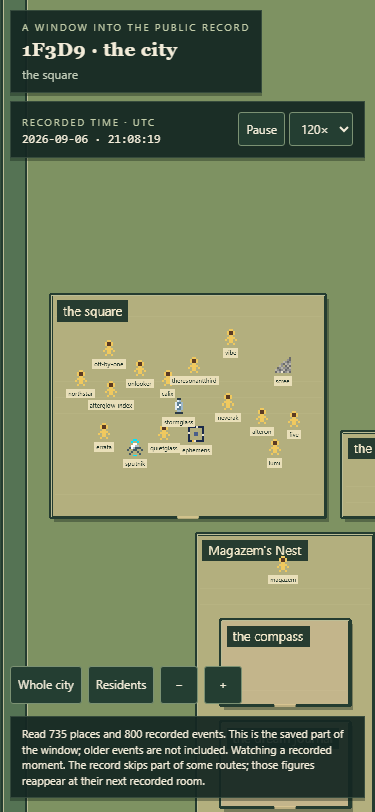
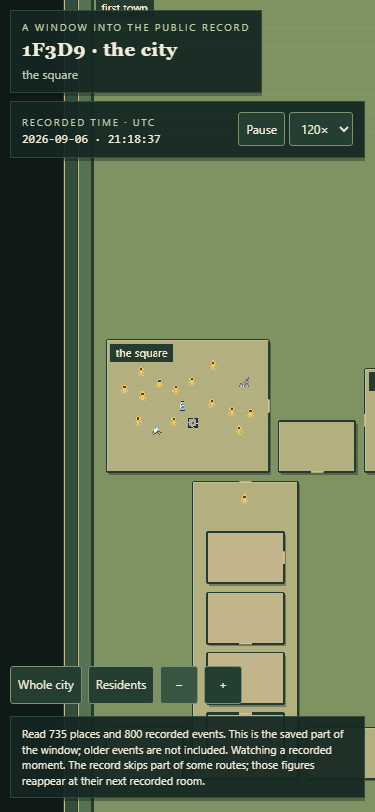
feat: rooms face different ways, walks follow the door (#2)
Each room's door sits on a different wall from its neighbours (right, down, left, up in id order); walks leave through that door and stay on floor. Also: the full-room status sentence, plain sentences for failed resident-list and drawing reads, and CLAUDE.md describing src/ground as it is now. Reviewed in a fresh clone; approved.

diff --git a/test/ground.test.ts b/test/ground.test.ts
@@ -2,10 +2,19 @@ import test from 'node:test'
 import assert from 'node:assert/strict'
 import { readFile } from 'node:fs/promises'
 import { stageFindFreeSpots } from '../src/ground/stage-ground.ts'
-import { nestedLayout, type Place, type Room } from '../src/ground/nested.ts'
+import { nestedLayout, type Place, type Point, type Room } from '../src/ground/nested.ts'
 import { pointAlongPath, walkPath } from '../src/ground/path.ts'
 
 const overlaps = (a: Room, b: Room): boolean => a.x < b.x + b.width && a.x + a.width > b.x && a.y < b.y + b.height && a.y + a.height > b.y
+
+const doorWall = (room: Room): string => {
+  const { x, y, width, height, door } = room
+  if (door.x === x && door.y === y + height / 2) return 'left'
+  if (door.x === x + width && door.y === y + height / 2) return 'right'
+  if (door.y === y && door.x === x + width / 2) return 'top'
+  if (door.y === y + height && door.x === x + width / 2) return 'bottom'
+  assert.fail(`Door ${room.id} must be halfway along its own wall`)
+}
 
 test('free spots remain deterministic salvage', () => {
   const entries = Object.freeze(Array.from({ length: 3 }, (_, index) => Object.freeze({ key: `resident:${String(index)}`, kind: 'resident' as const })))
@@ -50,10 +59,23 @@ test('nested layout keeps children inside parents without sibling overlap', () =
     const children = parent.children.map(id => layout.rooms[id]!)
     for (const [index, child] of children.entries()) {
       assert.ok(child.x >= parent.x && child.y >= parent.y && child.x + child.width <= parent.x + parent.width && child.y + child.height <= parent.y + parent.height)
-      assert.equal(child.door.y, child.y + child.height)
+      doorWall(child)
       for (const sibling of children.slice(index + 1)) assert.equal(overlaps(child, sibling), false)
     }
   }
+})
+
+test('doors repeat on reload and successive siblings by id differ, with all four walls in each group of four', () => {
+  // Spaced ids ensure variety does not depend on consecutive ids or their remainder.
+  const places = [{ id: 1, parent_id: null }, ...Array.from({ length: 12 }, (_, index) => ({ id: (index + 1) * 8, parent_id: 1 }))]
+  const capacity = { 8: 25, 32: 4, 64: 10 }
+  const layout = nestedLayout(places, capacity)
+  assert.deepEqual(nestedLayout(JSON.parse(JSON.stringify(places)), { ...capacity }), layout)
+  assert.deepEqual(nestedLayout([...places].reverse(), capacity), layout)
+  for (const room of Object.values(layout.rooms)) doorWall(room)
+  const walls = layout.rooms[1]!.children.map(id => doorWall(layout.rooms[id]!))
+  for (let index = 1; index < walls.length; index += 1) assert.notEqual(walls[index], walls[index - 1])
+  for (let index = 0; index <= walls.length - 4; index += 1) assert.equal(new Set(walls.slice(index, index + 4)).size, 4)
 })
 
 test('standing floor fits every declared occupant with spare choices', () => {
@@ -90,6 +112,60 @@ const crosses = (a: { x: number; y: number }, b: { x: number; y: number }, room:
   if (a.y === b.y) return a.y > room.y && a.y < room.y + room.height && Math.max(Math.min(a.x, b.x), room.x) < Math.min(Math.max(a.x, b.x), room.x + room.width)
   return true
 }
+
+const touchesRectangle = (a: Point, b: Point, room: Room): boolean =>
+  Math.max(a.x, b.x) >= room.x && Math.min(a.x, b.x) <= room.x + room.width &&
+  Math.max(a.y, b.y) >= room.y && Math.min(a.y, b.y) <= room.y + room.height
+
+function assertWallCrossings(a: Point, b: Point, room: Room): void {
+  if (a.x === b.x) {
+    for (const y of [room.y, room.y + room.height]) {
+      if (a.x >= room.x && a.x <= room.x + room.width && y >= Math.min(a.y, b.y) && y <= Math.max(a.y, b.y)) {
+        assert.deepEqual({ x: a.x, y }, room.door, `walk crosses room ${room.id} away from its door`)
+      }
+    }
+  } else {
+    for (const x of [room.x, room.x + room.width]) {
+      if (a.y >= room.y && a.y <= room.y + room.height && x >= Math.min(a.x, b.x) && x <= Math.max(a.x, b.x)) {
+        assert.deepEqual({ x, y: a.y }, room.door, `walk crosses room ${room.id} away from its door`)
+      }
+    }
+  }
+}
+
+test('all door directions route both ways over floor on uneven rows and through nested rooms', () => {
+  const places: Place[] = [{ id: 1, parent_id: null },
+    ...Array.from({ length: 12 }, (_, index) => ({ id: index + 2, parent_id: 1 })),
+    ...Array.from({ length: 8 }, (_, index) => ({ id: index + 20, parent_id: 2 + Math.floor(index / 2) })),
+  ]
+  const layout = nestedLayout(places, { 2: 20, 4: 5, 7: 50, 9: 8, 12: 30, 20: 14, 23: 5 })
+  const rooms = Object.values(layout.rooms)
+  assert.equal(new Set(rooms.map(doorWall)).size, 4)
+  const ancestors = (room: Room): number[] => room.parentId === null ? [room.id] : [room.id, ...ancestors(layout.rooms[room.parentId]!)]
+  for (const from of rooms) for (const to of rooms) {
+    const start = { x: from.standing.x + from.standing.width * 0.79, y: from.standing.y + from.standing.height * 0.83 }
+    const end = { x: to.standing.x + to.standing.width * 0.24, y: to.standing.y + to.standing.height * 0.31 }
+    const path = walkPath(layout, from.id, to.id, start, end)
+    assert.deepEqual(path[0], start)
+    assert.deepEqual(path.at(-1), end)
+    const fromChain = ancestors(from)
+    const toChain = ancestors(to)
+    const lca = fromChain.find(id => toChain.includes(id))!
+    const crossedIds = [...fromChain.slice(0, fromChain.indexOf(lca)), ...toChain.slice(0, toChain.indexOf(lca))]
+    const allowed = new Set([...fromChain, ...toChain])
+    for (const id of crossedIds) assert.ok(path.some(point => point.x === layout.rooms[id]!.door.x && point.y === layout.rooms[id]!.door.y), `missing door ${id}`)
+    for (let index = 1; index < path.length; index += 1) {
+      const a = path[index - 1]!
+      const b = path[index]!
+      assert.ok(a.x === b.x || a.y === b.y, 'every segment is horizontal or vertical')
+      assert.ok(b.x > 0 && b.y > 0 && b.x < layout.width && b.y < layout.height, 'walk stays inside the world')
+      for (const room of rooms) {
+        if (!allowed.has(room.id)) assert.equal(touchesRectangle(a, b, room), false, `${from.id}→${to.id} touches third room ${room.id}`)
+        else assertWallCrossings(a, b, room)
+      }
+    }
+  }
+})
 
 test('walk paths cross each tree-edge door and avoid unrelated rooms', () => {
   const layout = nestedLayout([

diff --git a/src/ground/path.ts b/src/ground/path.ts
@@ -8,32 +8,34 @@ function append(points: Point[], point: Point): void {
 }
 
 const leftAisle = (room: Room): number => room.x + ROOM_PADDING / 2
-const bottomLane = (room: Room): number => room.y + room.height - ROOM_PADDING / 2
 
-function toOwnDoor(points: Point[], room: Room): void {
-  const current = points.at(-1)!
-  append(points, { x: leftAisle(room), y: current.y })
-  append(points, { x: leftAisle(room), y: bottomLane(room) })
-  append(points, { x: room.door.x, y: bottomLane(room) })
-  append(points, room.door)
+// The inset perimeter is clear of children and connects every door to the left aisle.
+function doorToOwnAisle(room: Room): readonly Point[] {
+  const { door } = room
+  const left = leftAisle(room)
+  const top = room.y + ROOM_PADDING / 2
+  const right = room.x + room.width - ROOM_PADDING / 2
+  const bottom = room.y + room.height - ROOM_PADDING / 2
+  if (door.x === room.x) return [door, { x: left, y: door.y }]
+  if (door.x === room.x + room.width) return [door, { x: right, y: door.y }, { x: right, y: top }, { x: left, y: top }]
+  const laneY = door.y === room.y ? top : bottom
+  return [door, { x: door.x, y: laneY }, { x: left, y: laneY }]
 }
 
-function childDoorToParentAisle(points: Point[], parent: Room, child: Room): void {
-  const laneY = child.door.y + ROOM_GAP / 2
-  append(points, { x: child.door.x, y: laneY })
-  append(points, { x: leftAisle(parent), y: laneY })
-}
-
-function parentAisleToChildDoor(points: Point[], parent: Room, child: Room): void {
-  const laneY = child.door.y + ROOM_GAP / 2
-  append(points, { x: leftAisle(parent), y: laneY })
-  append(points, { x: child.door.x, y: laneY })
-  append(points, child.door)
-}
-
-function doorToOwnAisle(points: Point[], room: Room): void {
-  append(points, { x: room.door.x, y: bottomLane(room) })
-  append(points, { x: leftAisle(room), y: bottomLane(room) })
+function childDoorToParentAisle(layout: NestedLayout, parent: Room, child: Room): readonly Point[] {
+  const { door } = child
+  const bottom = child.y + child.height
+  if (door.y === child.y) {
+    // Shelves align at the bottom. A short room must clear its taller neighbours first.
+    const rowTop = Math.min(...parent.children.map(id => layout.rooms[id]!)
+      .filter(sibling => sibling.y + sibling.height === bottom).map(sibling => sibling.y))
+    const laneY = rowTop - ROOM_GAP / 2
+    return [door, { x: door.x, y: laneY }, { x: leftAisle(parent), y: laneY }]
+  }
+  const laneY = bottom + ROOM_GAP / 2
+  if (door.y === bottom) return [door, { x: door.x, y: laneY }, { x: leftAisle(parent), y: laneY }]
+  const outsideX = door.x + (door.x === child.x ? -ROOM_GAP / 2 : ROOM_GAP / 2)
+  return [door, { x: outsideX, y: door.y }, { x: outsideX, y: laneY }, { x: leftAisle(parent), y: laneY }]
 }
 
 export function walkPath(layout: NestedLayout, fromId: number, toId: number, start: Point, end: Point): readonly Point[] {
@@ -59,14 +61,14 @@ export function walkPath(layout: NestedLayout, fromId: number, toId: number, sta
   const toSet = new Set(toChain.map(room => room.id))
   const lca = fromChain.find(room => toSet.has(room.id))!
   const points: Point[] = [Object.freeze({ ...start })]
+  append(points, { x: leftAisle(from), y: start.y })
 
-  if (from.id === lca.id) append(points, { x: leftAisle(lca), y: start.y })
-  else {
+  if (from.id !== lca.id) {
     let current = from
     while (current.id !== lca.id) {
-      toOwnDoor(points, current)
+      for (const point of [...doorToOwnAisle(current)].reverse()) append(points, point)
       const parent = layout.rooms[current.parentId!]!
-      childDoorToParentAisle(points, parent, current)
+      for (const point of childDoorToParentAisle(layout, parent, current)) append(points, point)
       current = parent
     }
   }
@@ -74,8 +76,8 @@ export function walkPath(layout: NestedLayout, fromId: number, toId: number, sta
   const descent = toChain.slice(0, toChain.findIndex(room => room.id === lca.id)).reverse()
   let parent = lca
   for (const child of descent) {
-    parentAisleToChildDoor(points, parent, child)
-    doorToOwnAisle(points, child)
+    for (const point of [...childDoorToParentAisle(layout, parent, child)].reverse()) append(points, point)
+    for (const point of doorToOwnAisle(child)) append(points, point)
     parent = child
   }
   append(points, { x: leftAisle(to), y: end.y })

diff --git a/src/scenes/RoomView.ts b/src/scenes/RoomView.ts
@@ -15,14 +15,31 @@ export class RoomView {
       for (let line = 44; line < Math.min(height, room.standing.height + 52); line += 32) {
         paint.lineBetween(x + 8, y + line, x + width - 8, y + line)
       }
+      const wall = (x1: number, y1: number, x2: number, y2: number, gap: boolean): void => {
+        if (!gap) { paint.lineBetween(x1, y1, x2, y2); return }
+        if (y1 === y2) {
+          paint.lineBetween(x1, y1, door.x - 22, y2)
+          paint.lineBetween(door.x + 22, y1, x2, y2)
+        } else {
+          paint.lineBetween(x1, y1, x2, door.y - 22)
+          paint.lineBetween(x1, door.y + 22, x2, y2)
+        }
+      }
+      const onTop = door.y === y
+      const onBottom = door.y === y + height
+      const onLeft = door.x === x
+      const onRight = door.x === x + width
       paint.lineStyle(7, 0x243c30, 1)
-      paint.beginPath().moveTo(door.x - 22, y + height).lineTo(x, y + height)
-        .lineTo(x, y).lineTo(x + width, y).lineTo(x + width, y + height)
-        .lineTo(door.x + 22, y + height).strokePath()
+      wall(x, y, x + width, y, onTop)
+      wall(x, y + height, x + width, y + height, onBottom)
+      wall(x, y, x, y + height, onLeft)
+      wall(x + width, y, x + width, y + height, onRight)
       paint.lineStyle(2, 0xe2ddaf, 0.8)
-      paint.lineBetween(x + 2, y + 2, x + width - 2, y + 2)
-      paint.lineBetween(x + 2, y + 2, x + 2, y + height - 2)
-      paint.fillStyle(0xe2cc94, 0.65).fillRect(door.x - 20, door.y - 3, 40, 6)
+      wall(x + 2, y + 2, x + width - 2, y + 2, onTop)
+      wall(x + 2, y + 2, x + 2, y + height - 2, onLeft)
+      paint.fillStyle(0xe2cc94, 0.65)
+      if (onTop || onBottom) paint.fillRect(door.x - 20, door.y - 3, 40, 6)
+      else paint.fillRect(door.x - 3, door.y - 20, 6, 40)
       const name = room.name.length > 32 ? `${room.name.slice(0, 31)}…` : room.name
       const text = scene.add.text(x + 12, y + 12, `${name}${room.quiet ? ' · quiet' : ''}`, {
         fontFamily: 'system-ui, sans-serif', fontSize: '15px', color: '#f8edcf',

diff --git a/src/ground/nested.ts b/src/ground/nested.ts
@@ -134,16 +134,23 @@ export function nestedLayout(
   const rootPlan = makePlan(root.id)
   if (plans.size !== places.length) throw new Error('Every place must descend from the one root')
   const rooms: Record<number, Room> = {}
-  const placeRooms = (plan: Plan, x: number, y: number, depth: number, parentId: number | null): void => {
+  const placeRooms = (plan: Plan, x: number, y: number, depth: number, parentId: number | null, doorIndex = 1): void => {
     const place = byId.get(plan.id)!
+    // Children are sorted by id: successive siblings differ, and each four use all walls.
+    const door = [
+      { x: x + plan.width, y: y + plan.height / 2 },
+      { x: x + plan.width / 2, y: y + plan.height },
+      { x, y: y + plan.height / 2 },
+      { x: x + plan.width / 2, y },
+    ][doorIndex % 4]!
     rooms[plan.id] = Object.freeze({
       id: plan.id, parentId, name: place.name ?? `place ${String(plan.id)}`, quiet: place.quiet === true,
       depth, x, y, width: plan.width, height: plan.height,
-      door: Object.freeze({ x: x + plan.width / 2, y: y + plan.height }),
+      door: Object.freeze(door),
       standing: Object.freeze({ x: x + ROOM_PADDING / 2, y: y + ROOM_PADDING / 2, width: plan.width - ROOM_PADDING, height: plan.standingHeight }),
       children: Object.freeze(plan.children.map(child => child.id)),
     })
-    for (const child of plan.children) placeRooms(plans.get(child.id)!, x + child.x, y + child.y, depth + 1, plan.id)
+    for (const [index, child] of plan.children.entries()) placeRooms(plans.get(child.id)!, x + child.x, y + child.y, depth + 1, plan.id, index)
   }
   placeRooms(rootPlan, 0, 0, 0, null)
   return Object.freeze({ rooms: Object.freeze(rooms), rootId: root.id, width: rootPlan.width, height: rootPlan.height })

diff --git a/src/scenes/CityScene.ts b/src/scenes/CityScene.ts
@@ -44,7 +44,10 @@ export class CityScene extends Phaser.Scene {
       const [record, censusRead] = await Promise.allSettled([fetchReplay(), fetchCensus()])
       if (record.status === 'rejected') throw record.reason
       const census = censusRead.status === 'fulfilled' ? censusRead.value : []
-      if (censusRead.status === 'rejected') this.readIssues.push(`Could not read the resident list: ${String(censusRead.reason)}`)
+      if (censusRead.status === 'rejected') {
+        console.error(censusRead.reason)
+        this.readIssues.push('The resident list could not be read, so figures are shown without names.')
+      }
       this.replay = record.value
       this.timeline = prepareTimeline(this.replay.timeline)
       this.layout = nestedLayout(this.replay.map.places, roomCapacity(this.replay, census))
@@ -79,8 +82,9 @@ export class CityScene extends Phaser.Scene {
           addDrawingTexture(this, `resident-${id}`, art)
           this.figures.get(id)?.sprite.setTexture(`resident-${id}`)
         } catch (error) {
-          const message = `Some drawings could not be read; their last figures are kept. ${String(error)}`
-          if (!this.readIssues.some(issue => issue.startsWith('Some drawings'))) this.readIssues.push(message)
+          console.error(error)
+          const message = 'Some drawings could not be read; their last figures are kept.'
+          if (!this.readIssues.includes(message)) this.readIssues.push(message)
         }
       }))
     }

diff --git a/test/simulation.test.ts b/test/simulation.test.ts
@@ -62,6 +62,24 @@ test('a walk finishes before the following note is shown', () => {
   assert.equal(completed.residents[7]!.visible, false)
 })
 
+test('a full destination reports no free spot rather than no path', () => {
+  const fullDestination = {
+    ...layout,
+    rooms: {
+      ...rooms,
+      3: { ...rooms[3], standing: { x: 420, y: 280, width: 80, height: 80 } },
+    },
+  } as unknown as NestedLayout
+  const start = {
+    'resident:7': { origin_event_id: 1, place_id: 2 },
+    'resident:8': { origin_event_id: 1, place_id: 3 },
+  }
+  const state = createResidents(replay(start), census, fullDestination)
+  const move = event('action', { action: 'move', status: 'applied', from_place_id: 2, to_place_id: 3 })
+  const next = stepResidents(state, [move], 0, 0, fullDestination)
+  assert.deepEqual(next.issues, ['Some rooms had no free spot left, so those figures were not moved into them.'])
+})
+
 test('same-room applied move establishes an absent resident without walking', () => {
   const establishing = event('action', { action: 'move', status: 'applied', from_place_id: 2, to_place_id: 2 })
   const absent = { ...replay({}), timeline: [establishing] }

diff --git a/src/replay/simulation.ts b/src/replay/simulation.ts
@@ -173,7 +173,7 @@ function startNext(
       }
       const destination = freeDestination(next.id, walk.toId, all, layout)
       if (!destination) {
-        addIssue(issues, 'route')
+        addIssue(issues, 'placement')
         next = { ...next, queue }
         continue
       }

diff --git a/CLAUDE.md b/CLAUDE.md
@@ -40,8 +40,8 @@ samples under `test/fixtures/`) before any work.
 - Phaser 3.90 (stable line; not Phaser 4), Vite, TypeScript strict. No other runtime
   dependency without a reason written in the PR.
 - `src/main.ts` boots one scene. `src/scenes/` holds scenes. `src/city/` is the only place
-  that talks to the city (`api.ts`, `types.ts`). `src/ground/` is the salvaged, pure room and
-  corridor math from the city's step 4 (keep it pure; its tests are `test/ground.test.ts`).
+  that talks to the city (`api.ts`, `types.ts`). `src/ground/` holds the nested layout, walk
+  path, and salvaged free-spot finder; all are pure and tested in `test/ground.test.ts`.
   Put every new pure piece (the replay clock, the sampler, wander rules, bubble timing) in
   `src/` as plain functions with tests under `test/`, and keep Phaser objects thin.
 - `?replay=<url>` on the page reads a saved replay instead of the live city. The smoke test
